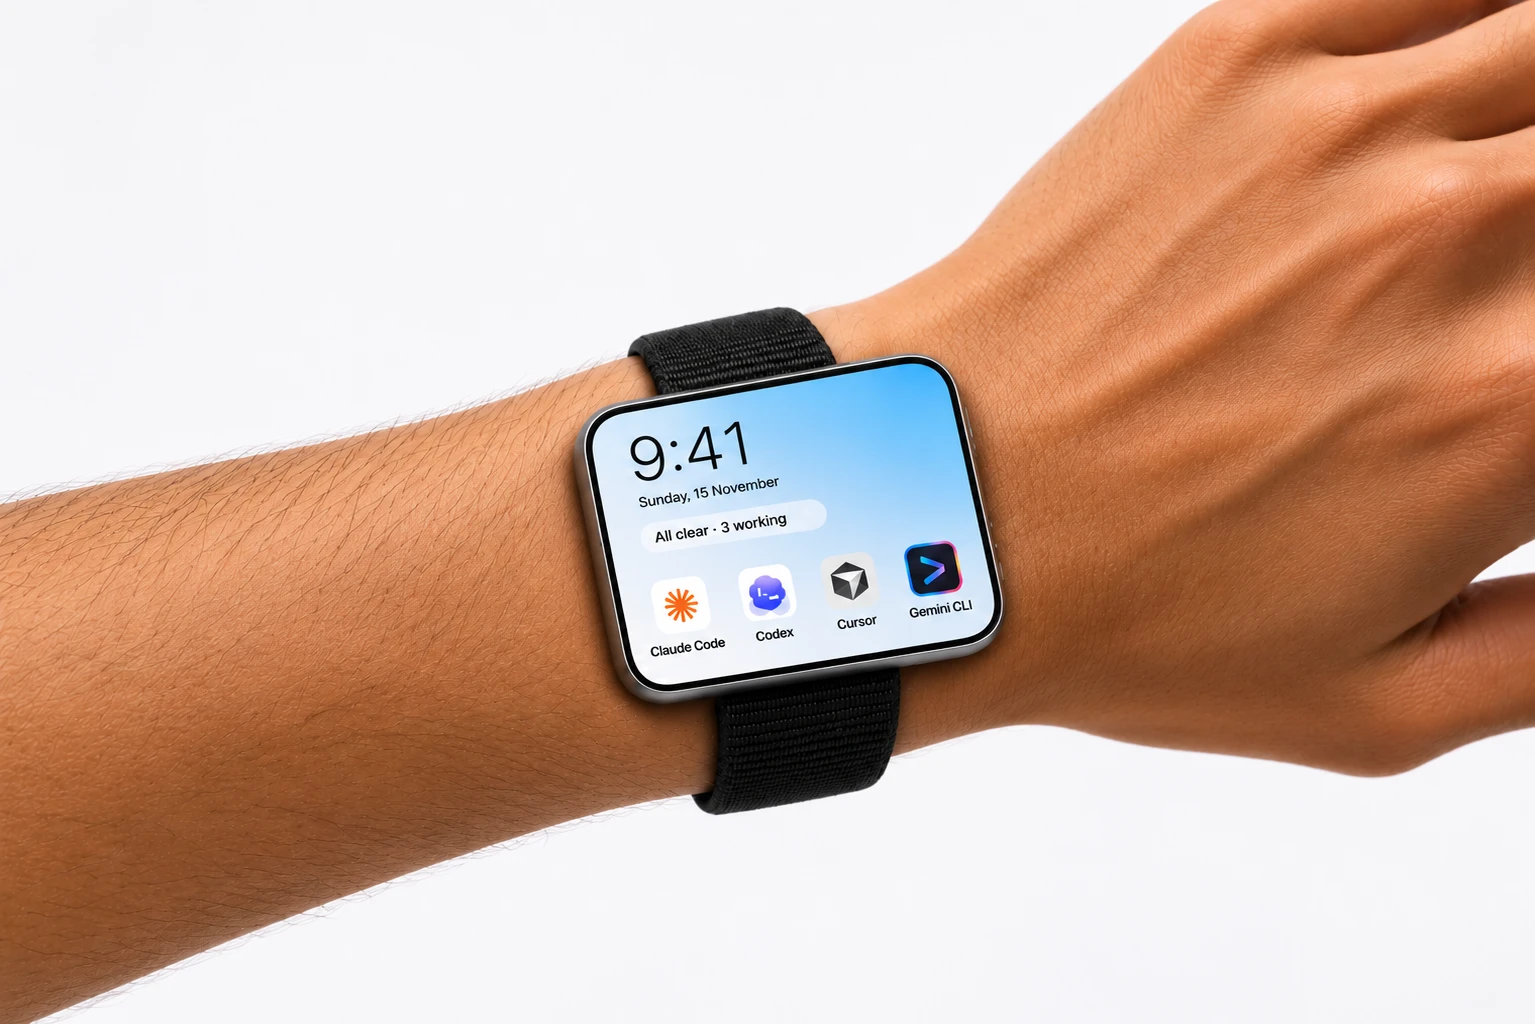
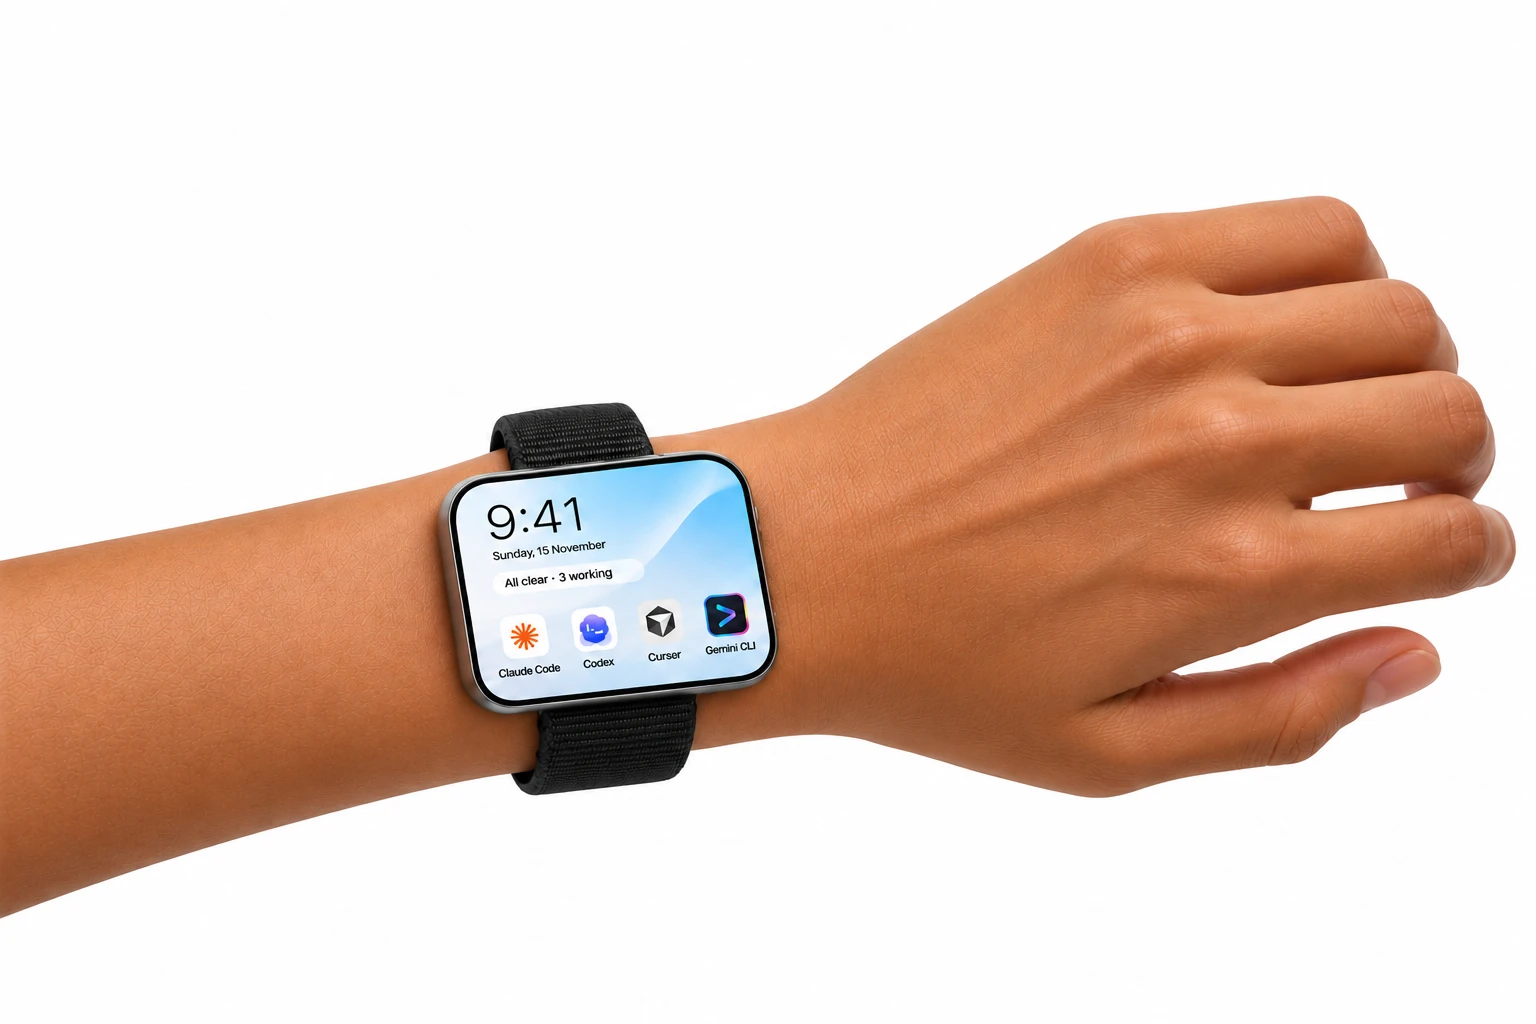
Shorter last form question, new wrist photo
- "How often do you walk away after a prompt?" with Rarely, Sometimes,
  Often, Almost always
- New wrist photo

diff --git a/app/form/page.js b/app/form/page.js
@@ -8,7 +8,7 @@ const STEPS = [
   { key: 'phone', type: 'tel', q: 'What’s the best number to reach you?', placeholder: 'Phone number', autoComplete: 'tel', required: true },
   { key: 'name', type: 'text', q: 'And what should we call you?', placeholder: 'Name', autoComplete: 'name' },
   { key: 'company', type: 'text', q: 'Where do you build?', placeholder: 'Company or project', autoComplete: 'organization' },
-  { key: 'away', type: 'choice', q: 'How long do you leave your agents working on their own?', options: ['A few minutes', 'Up to an hour', 'A few hours', 'Most of the day'] },
+  { key: 'away', type: 'choice', q: 'How often do you walk away after a prompt?', options: ['Rarely', 'Sometimes', 'Often', 'Almost always'] },
 ];
 
 const COUNTRIES = {

diff --git a/app/page.js b/app/page.js
@@ -32,7 +32,7 @@ export default function Home() {
           </div>
           <div className="pair">
             <img className="rv" src="/img/hand.webp" width={1199} height={1312} loading="lazy" alt="Abble 1 held between thumb and fingers" />
-            <img className="rv" src="/img/wrist.webp" width={1535} height={1024} loading="lazy" alt="Abble 1 worn on a black woven strap" />
+            <img className="rv" src="/img/wrist.webp" width={1536} height={1024} loading="lazy" alt="Abble 1 worn on a black woven strap" />
           </div>
         </section>
 
